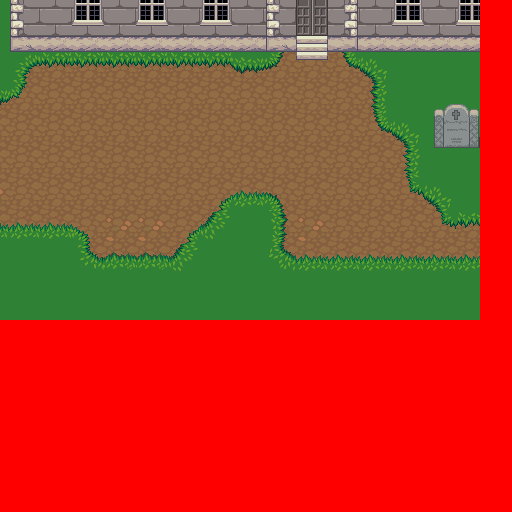
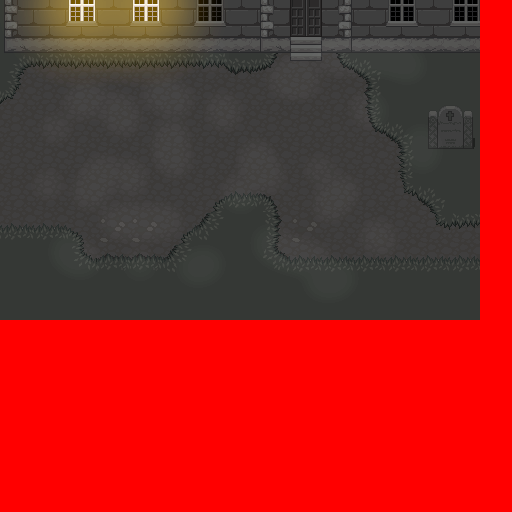
Added some more battle backgrounds (and touched up on the previous one).

diff --git a/ZombieLord/src/com/talas777/ZombieLord/Level.java b/ZombieLord/src/com/talas777/ZombieLord/Level.java
@@ -95,7 +95,7 @@ public abstract class Level {
 	public abstract LinkedList<MonsterArea> getMonsterAreas(TimeTracker timer);
 	
 	public String[] getBattleBackgrounds(){
-		return new String[]{"hometown/battle1.png"};
+		return new String[]{"hometown/battle1.png", "hometown/battle2.png", "hometown/battle3.png"};
 	}
 	
 	public abstract LinkedList<Dialog> getLevelDialogs();

diff --git a/ZombieLord/src/com/talas777/ZombieLord/ZombieLord.java b/ZombieLord/src/com/talas777/ZombieLord/ZombieLord.java
@@ -1738,7 +1738,7 @@ public class ZombieLord implements ApplicationListener, InputProcessor {
 		
 		background.draw(batch);
 		
-		if(this.gameMode == MODE_MOVE){
+		if(this.gameMode == MODE_MOVE || this.gameMode == MODE_DIALOG){
 			// draw level objects
 			if(this.levelObjects != null){
 				for(LevelObject object : this.levelObjects){
